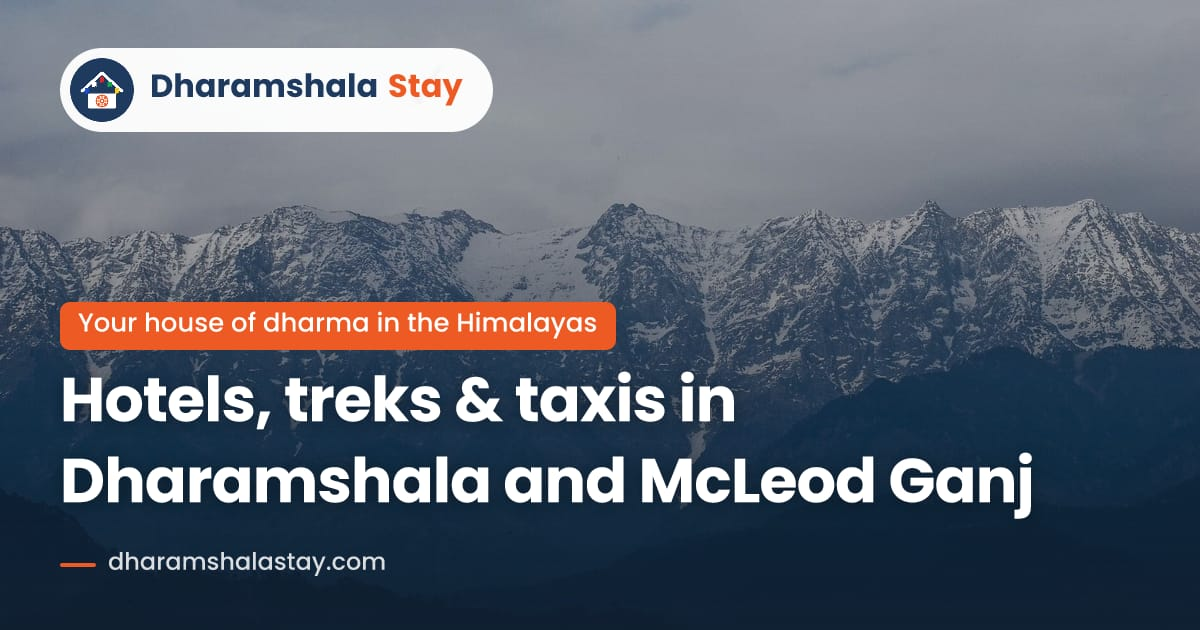
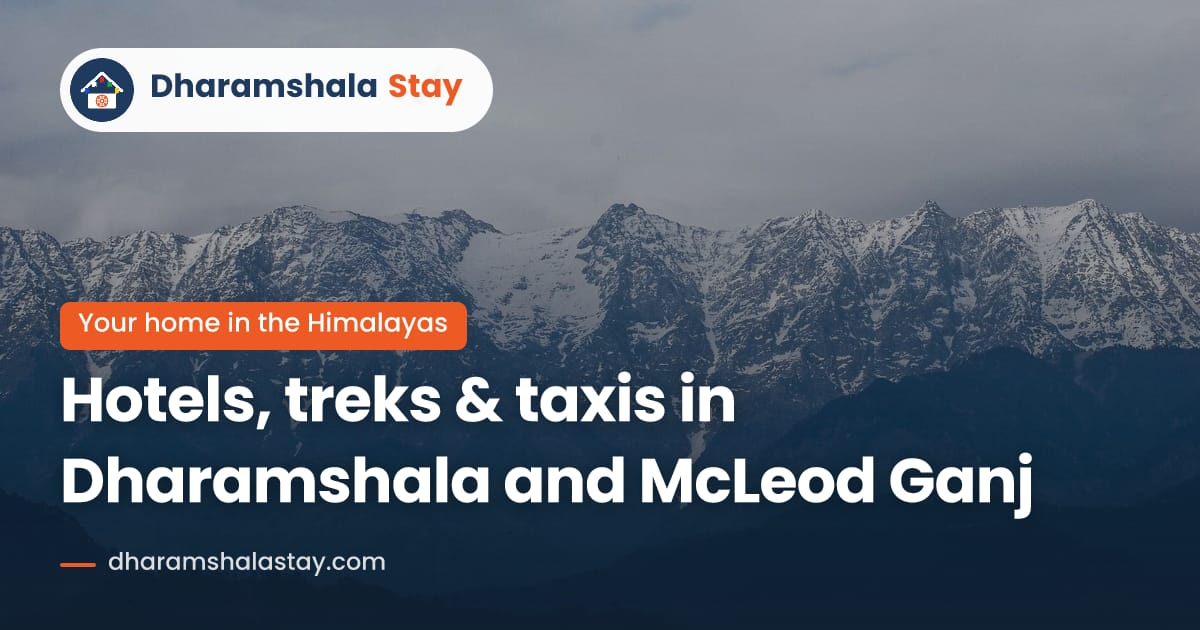
Tagline: Your home in the Himalayas (site header, brand files, default share image)

Changed region(s): [[0.1542, 0.4524, 0.5242, 0.573]]

diff --git a/lib/i18n/hi.ts b/lib/i18n/hi.ts
@@ -6,7 +6,7 @@ import type { Dict } from './en';
  */
 export const hi: Dict = {
   nav: {
-    tagline: 'स्थानीय यात्रा विशेषज्ञ',
+    tagline: 'हिमालय में आपका घर',
     hotels: 'होटल', treks: 'ट्रेक', paragliding: 'पैराग्लाइडिंग', taxi: 'टैक्सी',
     guides: 'ट्रैवल गाइड', monasteries: 'मठ और ध्यान', essentials: 'ज़रूरी बातें', faq: 'सवाल-जवाब', contact: 'संपर्क',
     listProperty: 'पार्टनर बनें', myAccount: 'मेरा अकाउंट', login: 'लॉगिन', loginSignup: 'लॉगिन / साइन अप',

diff --git a/lib/i18n/en.ts b/lib/i18n/en.ts
@@ -4,7 +4,7 @@
  */
 export const en = {
   nav: {
-    tagline: 'Local Travel Experts',
+    tagline: 'Your home in the Himalayas',
     hotels: 'Hotels', treks: 'Treks', paragliding: 'Paragliding', taxi: 'Taxi',
     guides: 'Travel Guides', monasteries: 'Monasteries', essentials: 'Essentials', faq: 'FAQ', contact: 'Contact',
     listProperty: 'Become a Partner', myAccount: 'My Account', login: 'Login', loginSignup: 'Login / Sign Up',
